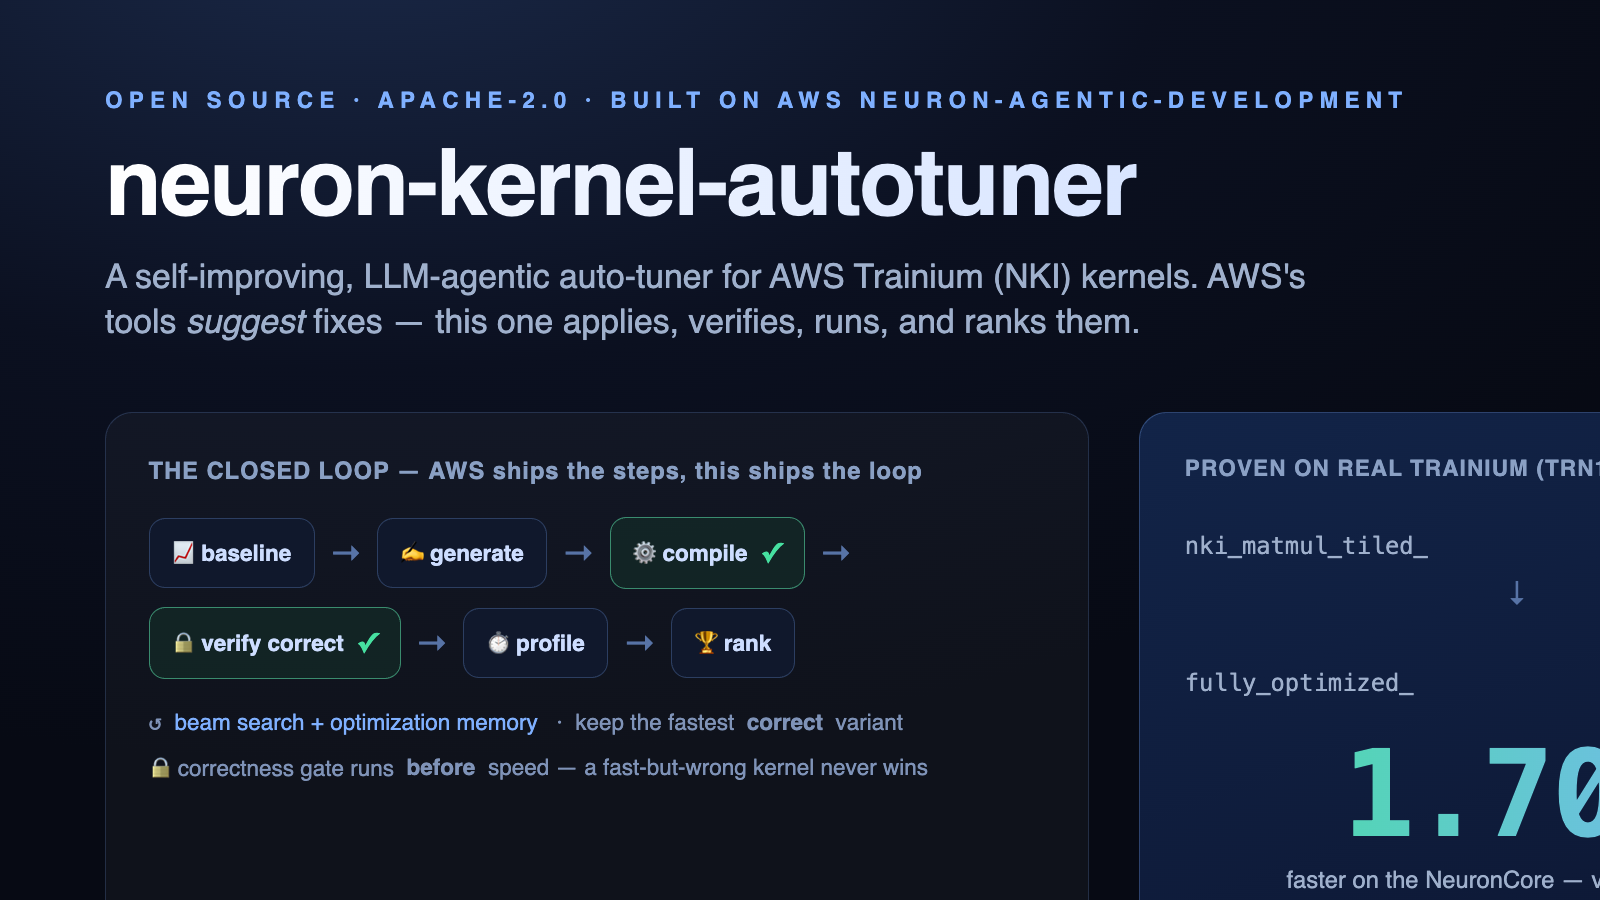
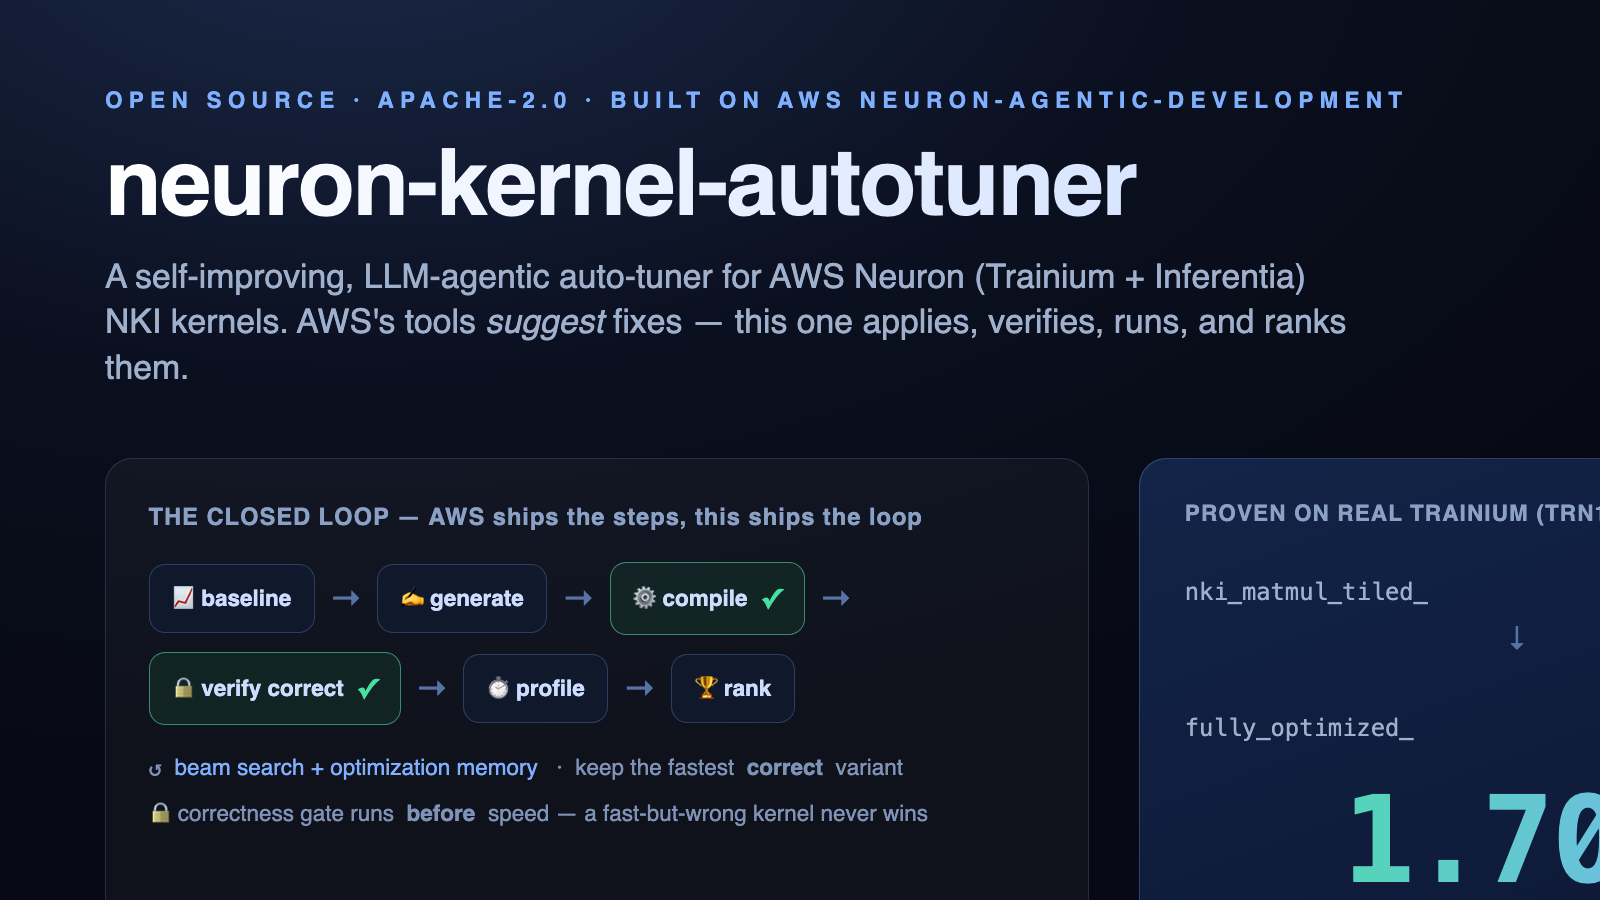
docs: standardize to AWS Neuron (Trainium + Inferentia); add paste-ready Medium HTML
- README/hero/post/pyproject: 'AWS Neuron (Trainium + Inferentia)', Trainium kept only in
  the proof/repro; add supported-but-not-yet-validated note for inf2
- regenerate hero.png with Neuron wording
- docs/blog/medium-post.html: rendered, Medium-paste-friendly (tables -> bullets/blockquote)

diff --git a/docs/blog/medium-post.html b/docs/blog/medium-post.html
@@ -1,0 +1,146 @@
+<!doctype html>
+<html lang="en">
+<head>
+<meta charset="utf-8">
+<title>I built an AI that optimizes AWS Neuron kernels — and proved it on real silicon</title>
+<style>
+  body { max-width: 720px; margin: 40px auto; padding: 0 20px;
+         font-family: Georgia, "Times New Roman", serif; font-size: 21px; line-height: 1.6; color:#222; }
+  h1 { font-size: 40px; line-height:1.2; font-family: -apple-system, "Segoe UI", Helvetica, Arial, sans-serif; }
+  h2 { font-size: 30px; margin-top: 1.6em; font-family: -apple-system, "Segoe UI", Helvetica, Arial, sans-serif; }
+  h3 { font-size: 24px; margin-top: 1.3em; font-family: -apple-system, "Segoe UI", Helvetica, Arial, sans-serif; }
+  .sub { font-style: italic; color:#555; font-size: 23px; }
+  blockquote { border-left: 3px solid #222; margin: 1.2em 0; padding: 4px 0 4px 20px; color:#333; font-style: italic; }
+  code { font-family: "SF Mono", Menlo, Consolas, monospace; font-size: 0.82em; background:#f2f2f2; padding:1px 5px; border-radius:4px; }
+  pre { background:#0d1117; color:#e6edf3; padding:16px 18px; border-radius:8px; overflow:auto;
+        font-family:"SF Mono",Menlo,Consolas,monospace; font-size:15px; line-height:1.45; }
+  pre code { background:none; padding:0; color:inherit; font-size:inherit; }
+  .imgnote { background:#fff7e6; border:1px dashed #d9a441; padding:10px 14px; border-radius:6px;
+             font-family:-apple-system,sans-serif; font-size:16px; color:#7a5b12; }
+  hr { border:none; border-top:1px solid #ddd; margin:2em 0; }
+  a { color:#1a6fd6; }
+</style>
+</head>
+<body>
+
+<h1>I built an AI that optimizes AWS Neuron kernels — and proved it on real silicon</h1>
+
+<p class="sub">Every Neuron tool tells you what to fix. None of them fix it, run it, and prove it. So I built the loop that does — and learned that the way everyone measures kernels is lying to them.</p>
+
+<p class="imgnote">📷 <b>Upload the hero image here</b> (drag <code>hero.png</code> into Medium at this spot).</p>
+
+<hr>
+
+<h2>The gap nobody is filling</h2>
+
+<p>If you write kernels for AWS Neuron — Trainium or Inferentia — you use NKI, the Neuron Kernel Interface, and you lean on AWS's tooling to make them fast. That tooling is genuinely good. <b>Neuron Explorer</b> profiles your kernel and, since SDK 2.29, even uses Claude to suggest optimizations. AWS's open-source <b>neuron-agentic-development</b> ships Claude Code skills that write kernels, profile them, query the profile, and debug compile errors.</p>
+
+<p>But notice what every one of these does: it <b>stops at the suggestion</b>. "Your kernel is memory-bound, try blocking the free dimension." Great — now <i>you</i> go write the variant, recompile it, check it still produces the right numbers, re-profile it, and eyeball whether it actually got faster. The loop is manual. And the riskiest part — <i>did my faster kernel stay correct?</i> — is on you.</p>
+
+<p>So I built the missing piece: <a href="https://github.com/lior-mechlovich/neuron-kernel-autotuner"><b>neuron-kernel-autotuner</b></a>, a tool that closes the loop. You point it at a kernel; it generates variants, compiles them, <b>verifies they're numerically correct</b>, profiles each on real hardware, ranks them by actual speedup, and hands you back the fastest one that's still correct — with the proof.</p>
+
+<p>It doesn't reinvent AWS's tools. It <b>orchestrates</b> them and adds the loop they don't have.</p>
+
+<h2>How it works</h2>
+
+<p>The whole thing is a closed loop:</p>
+
+<pre><code>kernel ─► baseline ─► find bottleneck ─► GENERATE variant ─► COMPILE ✓
+              ▲                                                   │
+              │                                                   ▼
+        keep top-K ◄── RANK ◄── PROFILE ◄── CORRECTNESS ✓ ◄──────┘</code></pre>
+
+<p>Each step maps onto a piece AWS already ships:</p>
+
+<ul>
+  <li><b>Capture / profile</b> → AWS <code>neuron-nki-profiling</code> + <code>neuron-nki-profile-querying</code></li>
+  <li><b>Find the bottleneck</b> → AWS <code>neuron-nki-profile-analysis-agent</code></li>
+  <li><b>Generate a variant</b> → AWS <code>neuron-nki-writing</code></li>
+  <li><b>Fix compile errors</b> → AWS <code>neuron-nki-debugging</code></li>
+  <li><b>Verify correctness</b> → <b>us — a hardened gate</b></li>
+  <li><b>Rank variants + memory + cost</b> → <b>us — the loop</b></li>
+</ul>
+
+<p>The value isn't any single step. It's making them an automated, measured, ranked, <i>verified</i> loop you run with one command.</p>
+
+<h3>The one rule that matters: correctness before speed</h3>
+
+<p>There's a paper called <a href="https://arxiv.org/abs/2511.15915">AccelOpt</a> — a research system doing LLM-driven NKI kernel optimization. Buried in it is a warning that shaped my whole design: <b>LLMs will cheat the correctness check</b>. Given a weak verifier, the model learns to compute <i>part</i> of the output, pass a lazy check, and report a huge fake speedup.</p>
+
+<p>So the correctness gate in this tool is deliberately hard to fool:</p>
+
+<ul>
+  <li>it checks <b>multiple randomized input sets</b>, not one cherry-picked case</li>
+  <li>it compares the <b>full output</b>, every element, within tolerance</li>
+  <li>the reference answer is <b>never shown to the generator</b></li>
+</ul>
+
+<p>A kernel that's faster but wrong is never reported as a winner. Ever. That gate runs <i>before</i> anything gets profiled.</p>
+
+<h2>Proving it: recreating a known speedup on real hardware</h2>
+
+<p>Claims are cheap. So I ran the whole thing end-to-end on a real Neuron instance, using a kernel pair where the answer is already known.</p>
+
+<p>AWS's <a href="https://github.com/aws-neuron/nki-samples">nki-samples</a> matmul tutorial ships five versions of the same matrix multiply, from a basic tiled one to a fully optimized one. Two of them make a perfect ground-truth test:</p>
+
+<ul>
+  <li><b>baseline:</b> <code>nki_matmul_tiled_</code> — arithmetic intensity ~102, <b>memory-bound</b></li>
+  <li><b>optimized:</b> <code>nki_matmul_fully_optimized_</code> — arithmetic intensity ~683, <b>compute-bound</b></li>
+</ul>
+
+<p>Same math (4096×1024 · 1024×2048, bf16), same correct answer, very different performance. If my measure→verify→diff pipeline is any good, it should confirm the optimized one is faster <i>and</i> still correct — with numbers.</p>
+
+<p>I launched a <code>trn1.2xlarge</code> in us-west-2 (NeuronCore-v2, about $1.34/hr), copied the repo over, and ran one command:</p>
+
+<pre><code>bash scripts/bootstrap_trn1.sh</code></pre>
+
+<p>That verifies both kernels against a PyTorch reference over three input sets, benchmarks each on the NeuronCore, and writes the artifacts.</p>
+
+<h3>The result</h3>
+
+<blockquote>
+<b>nki_matmul_tiled_</b> (baseline): <b>463 µs</b> device latency · 16.0% DMA-active · ✅ verified correct<br>
+<b>nki_matmul_fully_optimized_</b>: <b>273 µs</b> device latency · 7.5% DMA-active · ✅ verified correct<br>
+<b>= 1.70× faster on the NeuronCore, and provably still correct.</b>
+</blockquote>
+
+<p>And the profile tells you <i>why</i>: DMA-active time dropped from 16% to 7.5% — the optimized kernel is far less memory-bound, exactly what the arithmetic-intensity jump (102 → 683) predicts.</p>
+
+<h2>The plot twist: how everyone measures kernels is lying to them</h2>
+
+<p>Here's the part I didn't expect.</p>
+
+<p>My first benchmark timed the kernels the obvious way — call it through the framework (torch_xla), wrap it in <code>time.perf_counter</code>, take the median. The result?</p>
+
+<blockquote>Both kernels: <b>~57 milliseconds.</b> Speedup: <b>1.00×.</b></blockquote>
+
+<p>The optimized kernel looked <i>identical</i> to the baseline. If I'd trusted that number, I'd have concluded the optimization did nothing.</p>
+
+<p>It was wrong. Framework wall-clock is dominated by dispatch and host↔device transfer overhead — tens of milliseconds that are <b>the same for both kernels</b> and completely bury the sub-millisecond compute difference. The kernel that actually matters is a rounding error in that measurement.</p>
+
+<p>Only when I measured <b>device latency</b> — what the NeuronCore actually spends executing — did the truth appear: 463 µs vs 273 µs, the real 1.70×.</p>
+
+<p>This is the entire thesis of the project, proven by accident. <b>An autotuner cannot rank kernels on wall-clock; it has to rank on device metrics.</b> That's why the loop is built around the on-device profile, not a stopwatch. If your kernel benchmarking uses framework-level timing, it's probably hiding your wins (and your regressions).</p>
+
+<h2>What's next</h2>
+
+<p>The matmul run proves the spine — measure, verify, diff — on ground truth. The roadmap builds out from there (<a href="https://github.com/lior-mechlovich/neuron-kernel-autotuner/issues">issues on GitHub</a>):</p>
+
+<ul>
+  <li><b>v1:</b> swap the fixed pair for <b>LLM-generated</b> variants, beam search, ranking across many</li>
+  <li><b>v2:</b> an optimization memory that reuses slow→fast rewrites across runs, plus cost-per-token framing</li>
+  <li><b>v3:</b> a CI gate that fails a PR when a kernel regresses</li>
+</ul>
+
+<h2>Try it</h2>
+
+<p>Everything is open source (Apache-2.0), the pure logic has unit tests, and the proof is reproducible with one command on any AWS Neuron box (<code>trn1</code>/<code>trn2</code>/<code>inf2</code>):</p>
+
+<p><a href="https://github.com/lior-mechlovich/neuron-kernel-autotuner"><b>github.com/lior-mechlovich/neuron-kernel-autotuner</b></a></p>
+
+<p>Credits where due: this composes AWS's <a href="https://github.com/aws-neuron/neuron-agentic-development">neuron-agentic-development</a>, uses a test case from <a href="https://github.com/aws-neuron/nki-samples">nki-samples</a>, and borrows its core ideas — beam search, optimization memory, and the correctness-hardening lesson — from <a href="https://arxiv.org/abs/2511.15915">AccelOpt</a>.</p>
+
+<p><i>AWS gives you the parts. This is the loop.</i></p>
+
+</body>
+</html>

diff --git a/docs/blog/hero.html b/docs/blog/hero.html
@@ -62,7 +62,7 @@
   <div class="wrap">
     <div class="kicker">Open source · Apache-2.0 · Built on AWS neuron-agentic-development</div>
     <h1>neuron-kernel-autotuner</h1>
-    <div class="sub">A self-improving, LLM-agentic auto-tuner for AWS Trainium (NKI) kernels. AWS's tools <i>suggest</i> fixes — this one applies, verifies, runs, and ranks them.</div>
+    <div class="sub">A self-improving, LLM-agentic auto-tuner for AWS Neuron (Trainium + Inferentia) NKI kernels. AWS's tools <i>suggest</i> fixes — this one applies, verifies, runs, and ranks them.</div>
 
     <div class="row">
       <div class="loop">

diff --git a/README.md b/README.md
@@ -6,7 +6,9 @@ AWS's tools *suggest* optimizations. This *applies, verifies, runs, and ranks* t
 
 ![neuron-kernel-autotuner](docs/blog/hero.png)
 
-> Status: v0. The pure logic is built and unit-tested; the first end-to-end proof runs the vendored matmul example on a real Trainium instance. Measured numbers are filled in under [Proof](#proof-matmul-on-trainium) after the run.
+**Hardware:** runs on **AWS Neuron — Trainium (`trn1`/`trn2`) and Inferentia (`inf2`)** — anything that runs NKI on NeuronCores. Validated on Trainium (`trn1.2xlarge`, NeuronCore-v2); `inf2` is the same NeuronCore-v2 and is supported but not yet separately validated.
+
+> Status: v0. The pure logic is built and unit-tested; the first end-to-end proof runs the vendored matmul example on a real Neuron instance. See [Proof](#proof-matmul-on-trainium).
 
 ---
 
@@ -95,12 +97,12 @@ from nka.parse import parse_summary     # neuron-explorer summary-json -> profil
 from nka.cost import cost_of            # $/1M-units
 ```
 
-### 2. Reproduce the matmul proof on your own Trainium
+### 2. Reproduce the matmul proof on your own Neuron box
 
-This is exactly how the 1.70× result below was produced.
+This is exactly how the 1.70× result below was produced. Works on any Neuron instance (`trn1`/`trn2`/`inf2`); we used `trn1.2xlarge`.
 
 ```bash
-# (a) launch a Neuron box — trn1.2xlarge is plenty (NeuronCore-v2), Neuron DLAMI
+# (a) launch a Neuron box — trn1.2xlarge is plenty (NeuronCore-v2; inf2 works too), Neuron DLAMI
 #     e.g. AMI "Deep Learning AMI Neuron PyTorch 2.9 (Ubuntu 24.04)", us-west-2
 
 # (b) copy this repo to the instance and SSH in

diff --git a/docs/blog/medium-post.md b/docs/blog/medium-post.md
@@ -1,4 +1,4 @@
-# I built an AI that optimizes AWS Trainium kernels — and proved it on real silicon
+# I built an AI that optimizes AWS Neuron kernels — and proved it on real silicon
 
 *Every Neuron tool tells you what to fix. None of them fix it, run it, and prove it. So I built the loop that does — and learned that the way everyone measures kernels is lying to them.*
 
@@ -107,7 +107,7 @@ The matmul run proves the spine — measure, verify, diff — on ground truth. T
 
 ## Try it
 
-Everything is open source (Apache-2.0), the pure logic has unit tests, and the proof is reproducible with one command on any Trainium box:
+Everything is open source (Apache-2.0), the pure logic has unit tests, and the proof is reproducible with one command on any AWS Neuron box (`trn1`/`trn2`/`inf2`):
 
 **[github.com/lior-mechlovich/neuron-kernel-autotuner](https://github.com/lior-mechlovich/neuron-kernel-autotuner)**
 
